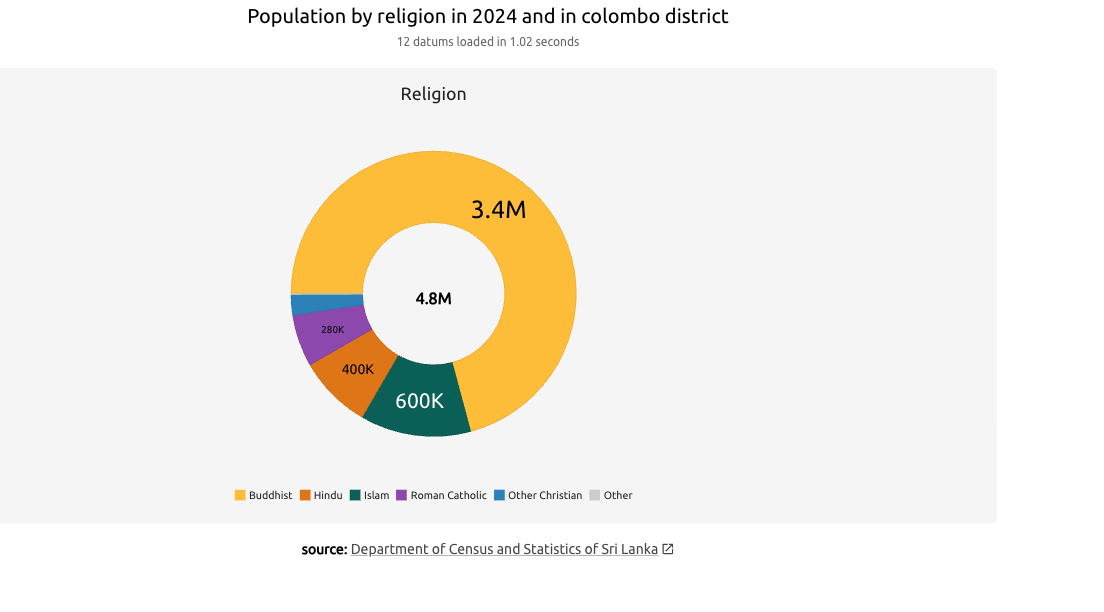
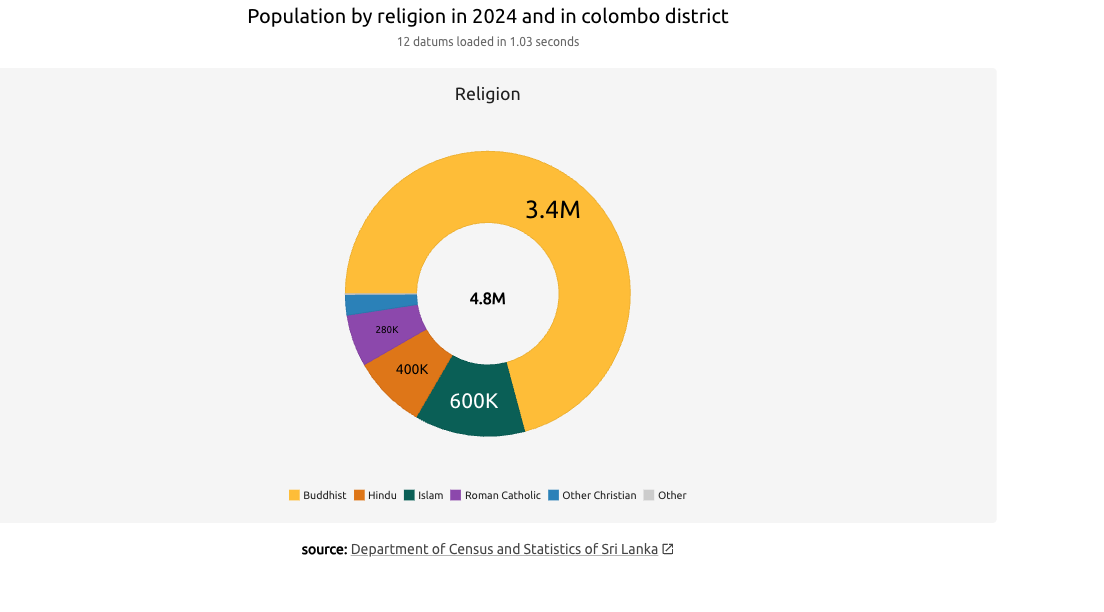
Refactor useViewportFit and FittedVisual components: remove unused left property, adjust transform logic for better alignment, and update CSS for consistent min-height handling.

Changed region(s): [[0.2464, 0.2484, 0.5851, 0.7141], [0.2156, 0.7761, 0.6159, 0.8382], [0.3696, 0.1242, 0.462, 0.1863]]

diff --git a/src/view/organisms/FittedVisual.js b/src/view/organisms/FittedVisual.js
@@ -18,7 +18,7 @@ export default function FittedVisual({ children, header, footer, visualRef }) {
     useElementHeight(headerRef) + useElementHeight(footerRef);
   const containerRef = useRef(null);
   const contentRef = useRef(null);
-  const { scale, height, left } = useViewportFit(
+  const { scale, height } = useViewportFit(
     containerRef,
     contentRef,
     VISUAL_VIEWPORT_MAX_RATIO,
@@ -68,11 +68,13 @@ export default function FittedVisual({ children, header, footer, visualRef }) {
               sx={{
                 position: fitToViewport ? "absolute" : "relative",
                 top: 0,
-                left: fitToViewport ? left : 0,
+                left: fitToViewport ? "50%" : 0,
                 width: "100%",
                 display: "flow-root",
-                transform: fitToViewport ? `scale(${scale})` : undefined,
-                transformOrigin: "top left",
+                transform: fitToViewport
+                  ? `translateX(-50%) scale(${scale})`
+                  : undefined,
+                transformOrigin: "top center",
               }}
             >
               {children}

diff --git a/src/nonview/base/useViewportFit.js b/src/nonview/base/useViewportFit.js
@@ -8,7 +8,7 @@ export default function useViewportFit(
   reservedHeight = 0,
   enabled = true,
 ) {
-  const [fit, setFit] = useState({ scale: 1, height: 0, left: 0 });
+  const [fit, setFit] = useState({ scale: 1, height: 0 });
 
   useLayoutEffect(() => {
     if (!enabled) return undefined;
@@ -30,12 +30,9 @@ export default function useViewportFit(
       const next = {
         scale,
         height: contentHeight * scale,
-        left: (width - contentWidth * scale) / 2,
       };
       setFit((previous) =>
-        previous.scale === next.scale &&
-        previous.height === next.height &&
-        previous.left === next.left
+        previous.scale === next.scale && previous.height === next.height
           ? previous
           : next,
       );

diff --git a/src/view/organisms/SizedChart.module.css b/src/view/organisms/SizedChart.module.css
@@ -1,4 +1,5 @@
 .container {
   width: 100%;
   height: 100%;
+  min-height: inherit;
 }
